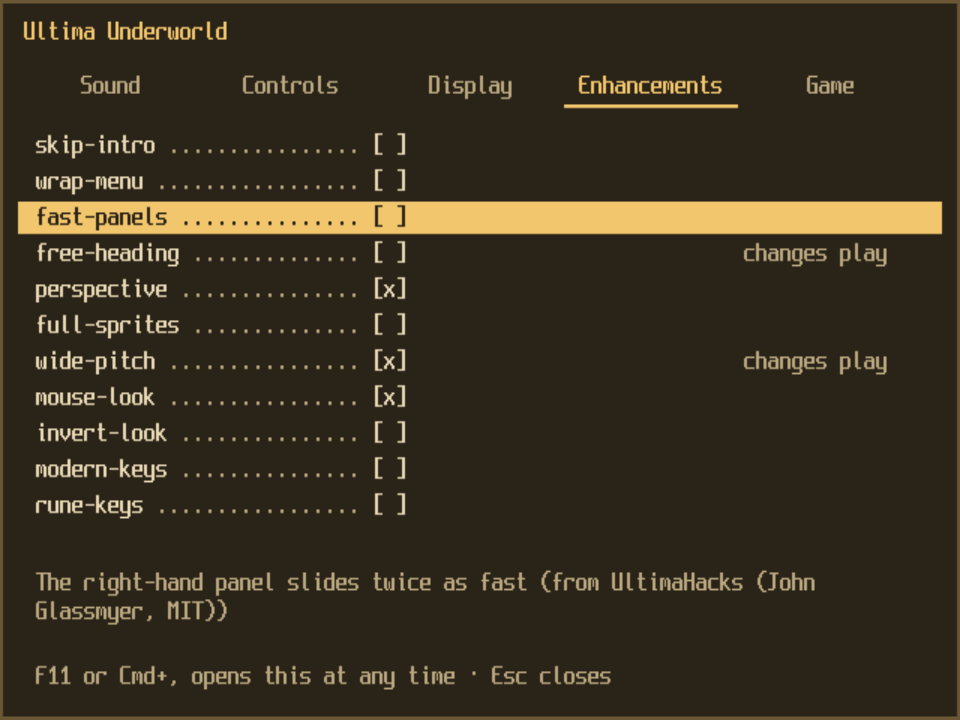
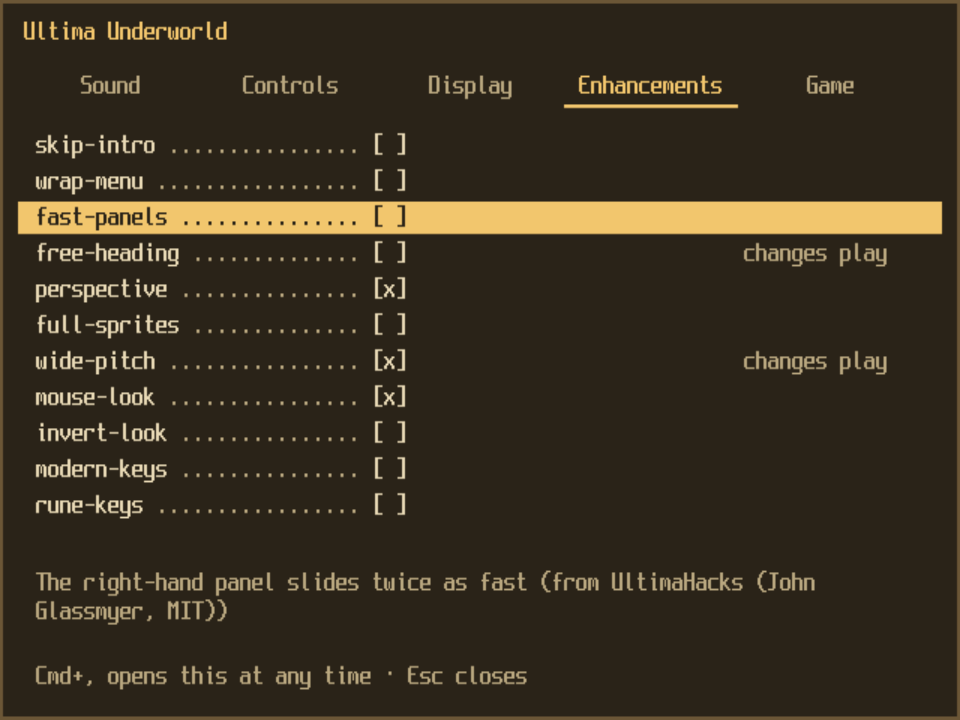
macOS: the settings screen's key is Cmd+, (the Mac takes F11 for Show Desktop, confirmed on a Mac in windowed mode); the footer, the docs and the screenshots say so

Changed region(s): [[0.0312, 0.9167, 0.6562, 0.9778]]

diff --git a/uw2/CHANGELOG.md b/uw2/CHANGELOG.md
@@ -10,7 +10,7 @@ For players. Each release's notes are drafted from here. Releases are tagged `uw
 - **New:** optional enhancements wide-pitch (look three times as far up and down, with no gaps in the floor or ceiling), mouse-look (the ` key: the mouse turns the view, a crosshair at the centre; `look-speed=` in the settings file) and invert-look (`--enhance list`).
 - **New:** optional enhancements modern-keys (UltimaHacks' keys: WASD, Space to attack, Q and E to look and use, Z for the map, R and F for the panels) and rune-keys (Ctrl+Alt and a letter puts a rune on the shelf) (`--enhance list`).
 - **New:** the port finds your MT-32 or CM-32L ROMs by itself: in a `roms` folder in its home folder, beside the game or the program, or where DOSBox keeps MT-32 ROMs. Any file names work (they are recognised by their contents), split halves are joined, and `--mt32-roms` takes a folder or one of the files. Or drop the ROM folder onto the app, the program or its window, and the music plays on the MT-32 from the next start; it moves there by itself, too, when ROMs turn up after a first run that had none.
-- **New:** a settings screen: F11 (or Cmd+, on macOS) opens it over the game, with the sound cards, volume, mouse, window, enhancements and the game folder, and the first run starts with it (docs/SETTINGS.md).
+- **New:** a settings screen: F11 (Cmd+, on macOS) opens it over the game, with the sound cards, volume, mouse, window, enhancements and the game folder, and the first run starts with it (docs/SETTINGS.md).
 - **Improved:** the program no longer keeps a processor core busy while the game waits for its clock: much lower CPU use, quieter fans and longer battery life, with the game playing exactly as before.
 - **Fixed:** the game could freeze for good, most often on some Windows PCs, after the program was paused by the system for a second or more. A creature update loop in the original game never ended after such a pause; the port now caps the step, which changes nothing the DOS game can do.
 - **Fixed:** high CPU and GPU use, and a mouse pointer that stalled in other programs, when the graphics driver ignores vsync or the window is in the background. The port now never draws faster than the display refreshes, and draws nothing while minimised or hidden.

diff --git a/uw1/CHANGELOG.md b/uw1/CHANGELOG.md
@@ -13,7 +13,7 @@ The first release of the native port of *Ultima Underworld: The Stygian Abyss* f
 - **New:** optional enhancements wide-pitch (look three times as far up and down, with no gaps in the floor or ceiling), mouse-look (the ` key: the mouse turns the view, a crosshair at the centre; `look-speed=` in the settings file) and invert-look (`--enhance list`).
 - **New:** optional enhancements modern-keys (UltimaHacks' keys: WASD, Space to attack, Q and E to look and use, Z for the map, R and F for the panels) and rune-keys (Ctrl+Alt and a letter puts a rune on the shelf) (`--enhance list`).
 - **New:** the port finds your MT-32 or CM-32L ROMs by itself: in a `roms` folder in its home folder, beside the game or the program, or where DOSBox keeps MT-32 ROMs. Any file names work (they are recognised by their contents), split halves are joined, and `--mt32-roms` takes a folder or one of the files. Or drop the ROM folder onto the app, the program or its window, and the music plays on the MT-32 from the next start; it moves there by itself, too, when ROMs turn up after a first run that had none.
-- **New:** a settings screen: F11 (or Cmd+, on macOS) opens it over the game, with the sound cards, volume, mouse, window, enhancements and the game folder, and the first run starts with it (docs/SETTINGS.md).
+- **New:** a settings screen: F11 (Cmd+, on macOS) opens it over the game, with the sound cards, volume, mouse, window, enhancements and the game folder, and the first run starts with it (docs/SETTINGS.md).
 - **Improved:** the program no longer keeps a processor core busy while the game waits for its clock: much lower CPU use, quieter fans and longer battery life, with the game playing exactly as before.
 - **Improved:** the cutscenes (the intro above all) and conversations take far less processor time: the expanded-memory emulation no longer copies a page out and back in each time the game maps the page it already has, which it does millions of times a minute there.
 - Ten recorded DOS sessions replay in it identically to DOS, on all three systems.

diff --git a/docs/SETTINGS.md b/docs/SETTINGS.md
@@ -1,8 +1,8 @@
 # Settings
 
-Each port has a settings screen. Press **F11** at any time to open it over the game, and F11 or Esc to close it. On macOS, where the desktop may take F11 for Show Desktop, **Cmd+,** opens and closes it too. While it is open the game's clock is stopped, and keys or mouse buttons you were holding when it opened are let go when it closes.
+Each port has a settings screen. Press **F11** at any time to open it over the game, and F11 or Esc to close it. On macOS press **Cmd+,** instead: the Mac takes F11 for Show Desktop, so it never reaches the game unless you turn that shortcut off (System Settings → Keyboard → Keyboard Shortcuts → Mission Control → Show Desktop). While it is open the game's clock is stopped, and keys or mouse buttons you were holding when it opened are let go when it closes.
 
-The first time you run a port, and on every start after that unless you turn it off, the screen opens before the game, which waits for you to close it. The **Show this at start** row on the Game tab turns that off; F11 still opens it.
+The first time you run a port, and on every start after that unless you turn it off, the screen opens before the game, which waits for you to close it. The **Show this at start** row on the Game tab turns that off; F11 (Cmd+, on macOS) still opens it.
 
 ![The Sound tab](img/settings-sound.png) ![The Enhancements tab](img/settings-enhancements.png)
 
@@ -14,7 +14,7 @@ The first time you run a port, and on every start after that unless you turn it 
 | Left, Right | change the row's value (on the tab bar: the previous or next tab) |
 | Enter | change the row's value (a switch flips, a list goes to the next choice, a folder row opens your system's folder picker) |
 | Tab | the next tab |
-| F11, Esc (and Cmd+, on macOS) | close the screen |
+| F11 (Cmd+, on macOS), Esc | close the screen |
 
 The mouse works too: click a tab, click a row to change it, drag a slider (Volume, Mouse-look speed).
 

diff --git a/README.md b/README.md
@@ -30,7 +30,7 @@ No game data is included: you need your own copy of each game (the GOG releases)
    - Windows: `uw1port.exe` or `uw2port.exe`.
    - Linux: the AppImage (`chmod +x`, then run it), or `./uw1` or `./uw2` from the tarball. The Linux packages need glibc 2.35 or later (Ubuntu 22.04 or newer).
 
-The controls are the game's own: the mouse, and the keys in the game's manual. F11 (or Cmd+, on macOS) opens the port's settings screen ([SETTINGS.md](docs/SETTINGS.md)). The game's cursor follows the system pointer; `--mouse lock` captures the pointer on a click instead, as DOSBox does, with Ctrl+F10 to release it. With the `mouse-look` enhancement on, the `` ` `` key turns the view by the mouse instead ([ENHANCEMENTS.md](docs/ENHANCEMENTS.md)). With `modern-keys`, the keys are UltimaHacks' layout (WASD, Space to attack, Q and E to look and use).
+The controls are the game's own: the mouse, and the keys in the game's manual. F11 (Cmd+, on macOS) opens the port's settings screen ([SETTINGS.md](docs/SETTINGS.md)). The game's cursor follows the system pointer; `--mouse lock` captures the pointer on a click instead, as DOSBox does, with Ctrl+F10 to release it. With the `mouse-look` enhancement on, the `` ` `` key turns the view by the mouse instead ([ENHANCEMENTS.md](docs/ENHANCEMENTS.md)). With `modern-keys`, the keys are UltimaHacks' layout (WASD, Space to attack, Q and E to look and use).
 
 Saved games and settings are kept in the port's home folder, never in the game folder: `~/.uw1port` or `~/.uw2port` on macOS and Linux, `%APPDATA%\uw1port` or `%APPDATA%\uw2port` on Windows.
 

diff --git a/docs/ENHANCEMENTS.md b/docs/ENHANCEMENTS.md
@@ -1,6 +1,6 @@
 # Enhancements
 
-The ports play the original games exactly: every recorded session replays in them identically to DOS. Enhancements are changes the original games do not have. Each is off unless you turn it on (in the settings screen, F11, on its Enhancements tab, or with `--enhance`), and a session played with any of them says so in its log and in its recording.
+The ports play the original games exactly: every recorded session replays in them identically to DOS. Enhancements are changes the original games do not have. Each is off unless you turn it on (in the settings screen, F11 or Cmd+, on macOS, on its Enhancements tab, or with `--enhance`), and a session played with any of them says so in its log and in its recording.
 
 ```
 uw2port --enhance list                 the enhancements, with what each does
